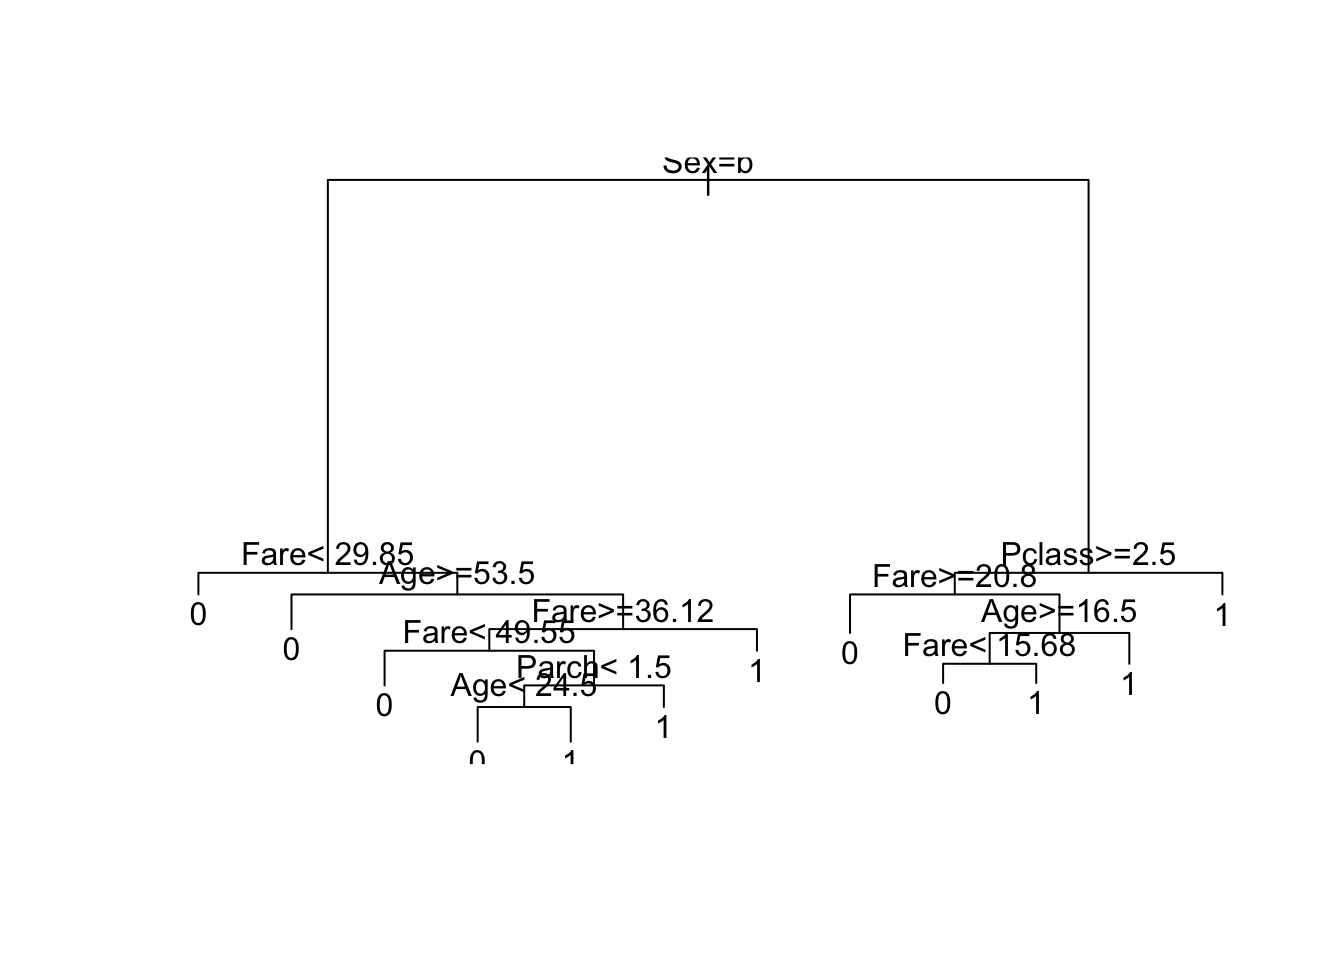
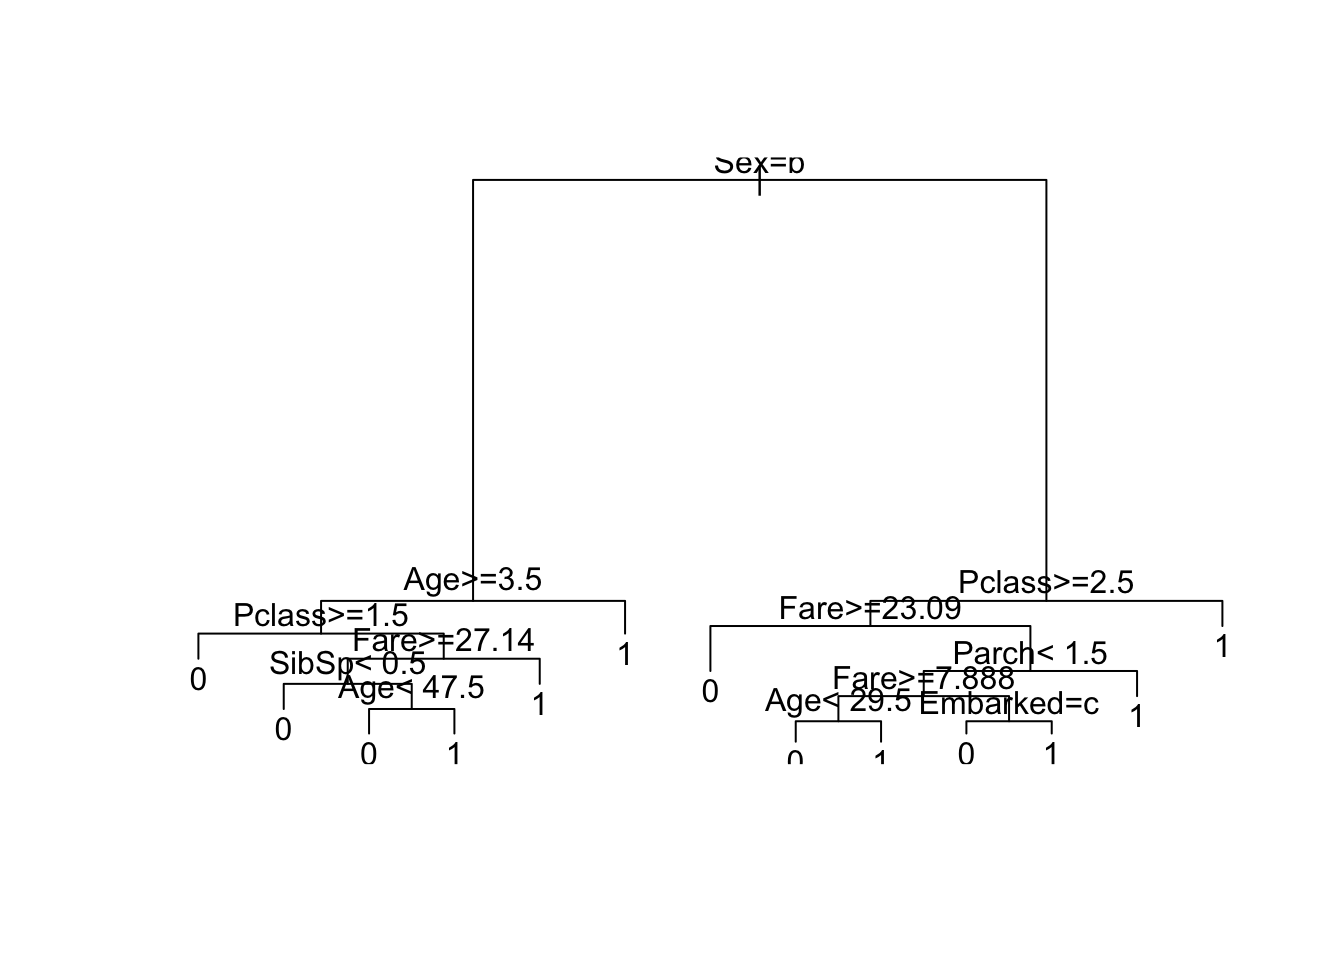
updated

diff --git a/index.html b/index.html
@@ -241,19 +241,19 @@ rpart.plot(decTreeModel)</code></pre>
 prediction &lt;- predict(decTreeModel, testingset, type = &quot;class&quot;)
 predictionResults &lt;- data.frame(Survived = prediction)
 head(predictionResults)</code></pre>
-<pre><code>##   Survived
-## 2        1
-## 3        0
-## 4        1
-## 5        0
-## 7        0
-## 9        0</code></pre>
+<pre><code>##    Survived
+## 1         0
+## 7         0
+## 11        0
+## 14        0
+## 17        1
+## 22        0</code></pre>
 <pre class="r"><code># claculate misclassification rate
 wrongPredictions = sum(prediction != testingset$Survived) 
 sizeOfTestSet = dim(testingset)[1]
 misclassification = wrongPredictions / sizeOfTestSet
 print(paste(&quot;Missclassification Rate: &quot;, round(misclassification*100,2), &quot;%&quot;))</code></pre>
-<pre><code>## [1] &quot;Missclassification Rate:  23.77 %&quot;</code></pre>
+<pre><code>## [1] &quot;Missclassification Rate:  22.29 %&quot;</code></pre>
 <p>Our decision tree indicates that females with Pclass &lt; 3 (so PClass 1 and 2) had the highest rate of survival (23%) for the training/testing dataset used. This rate will slightly vary evrytime a new training/testing set is used.</p>
 <p>We can conclude that women and children were prioritized in the evacuation as they had significantly higher survival rates according to our data. More expensive PClasses were also prioritized (PClass 1 and 2) as females who were in lower PClasses had a higher chance of survival according to our decision tree.</p>
 <pre class="r"><code>library(&quot;ggplot2&quot;)
